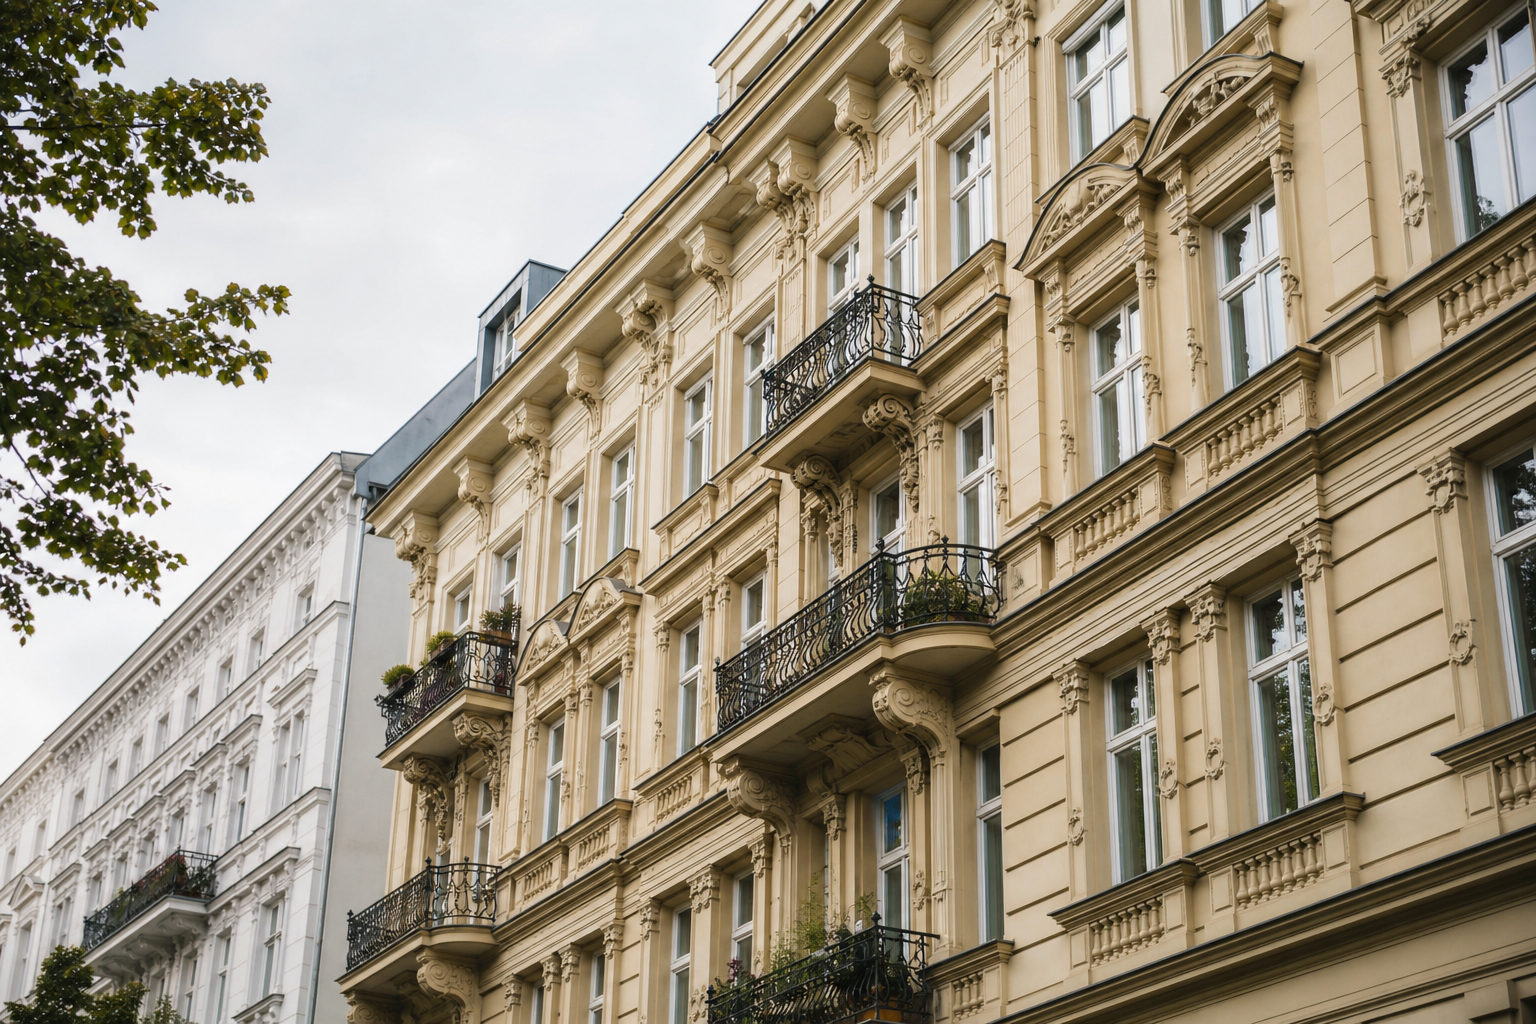
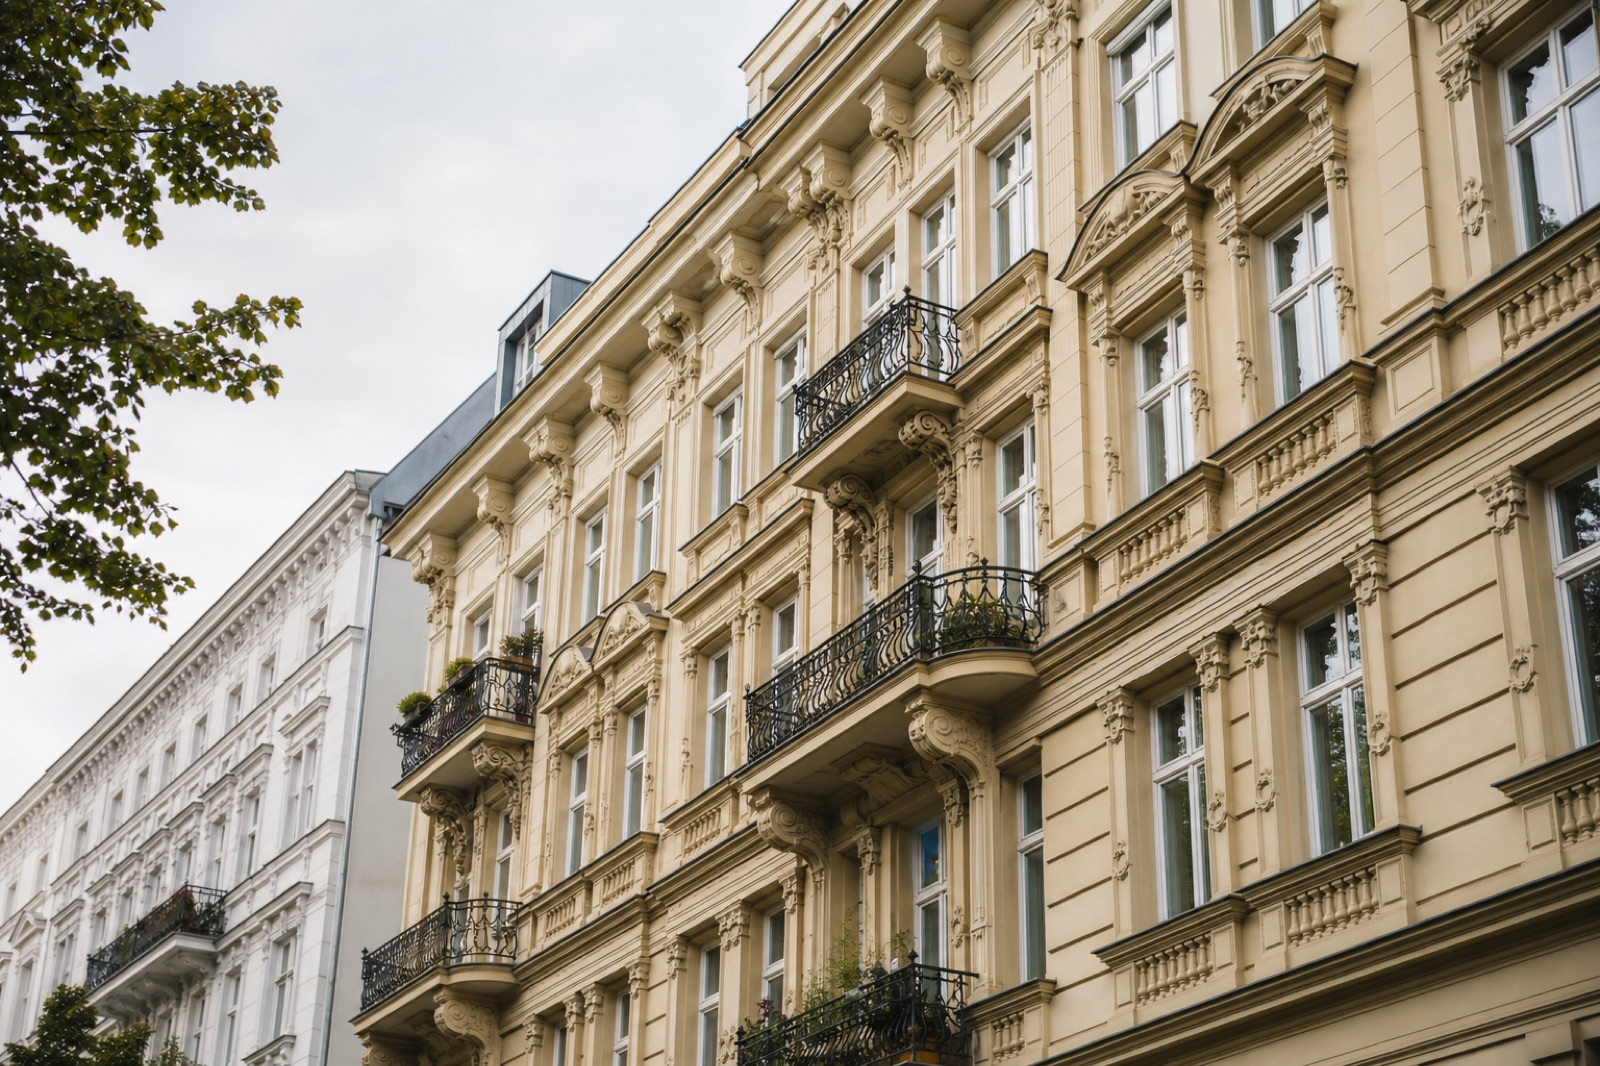
Optimize hero and app images for faster page loads.

diff --git a/app/components/Hero.tsx b/app/components/Hero.tsx
@@ -11,9 +11,9 @@ export default function Hero() {
           alt={alt.leipzigSkyline}
           fill
           priority
-          quality={92}
+          quality={80}
           className="object-cover object-center"
-          sizes="(min-width: 120rem) 120rem, 100vw"
+          sizes="100vw"
         />
         <div className="absolute inset-0 bg-ink/60" />
 

diff --git a/next.config.ts b/next.config.ts
@@ -2,7 +2,7 @@ import type { NextConfig } from "next";
 
 const nextConfig: NextConfig = {
   images: {
-    qualities: [75, 92],
+    qualities: [75, 80, 92],
     remotePatterns: [
       {
         protocol: "https",
